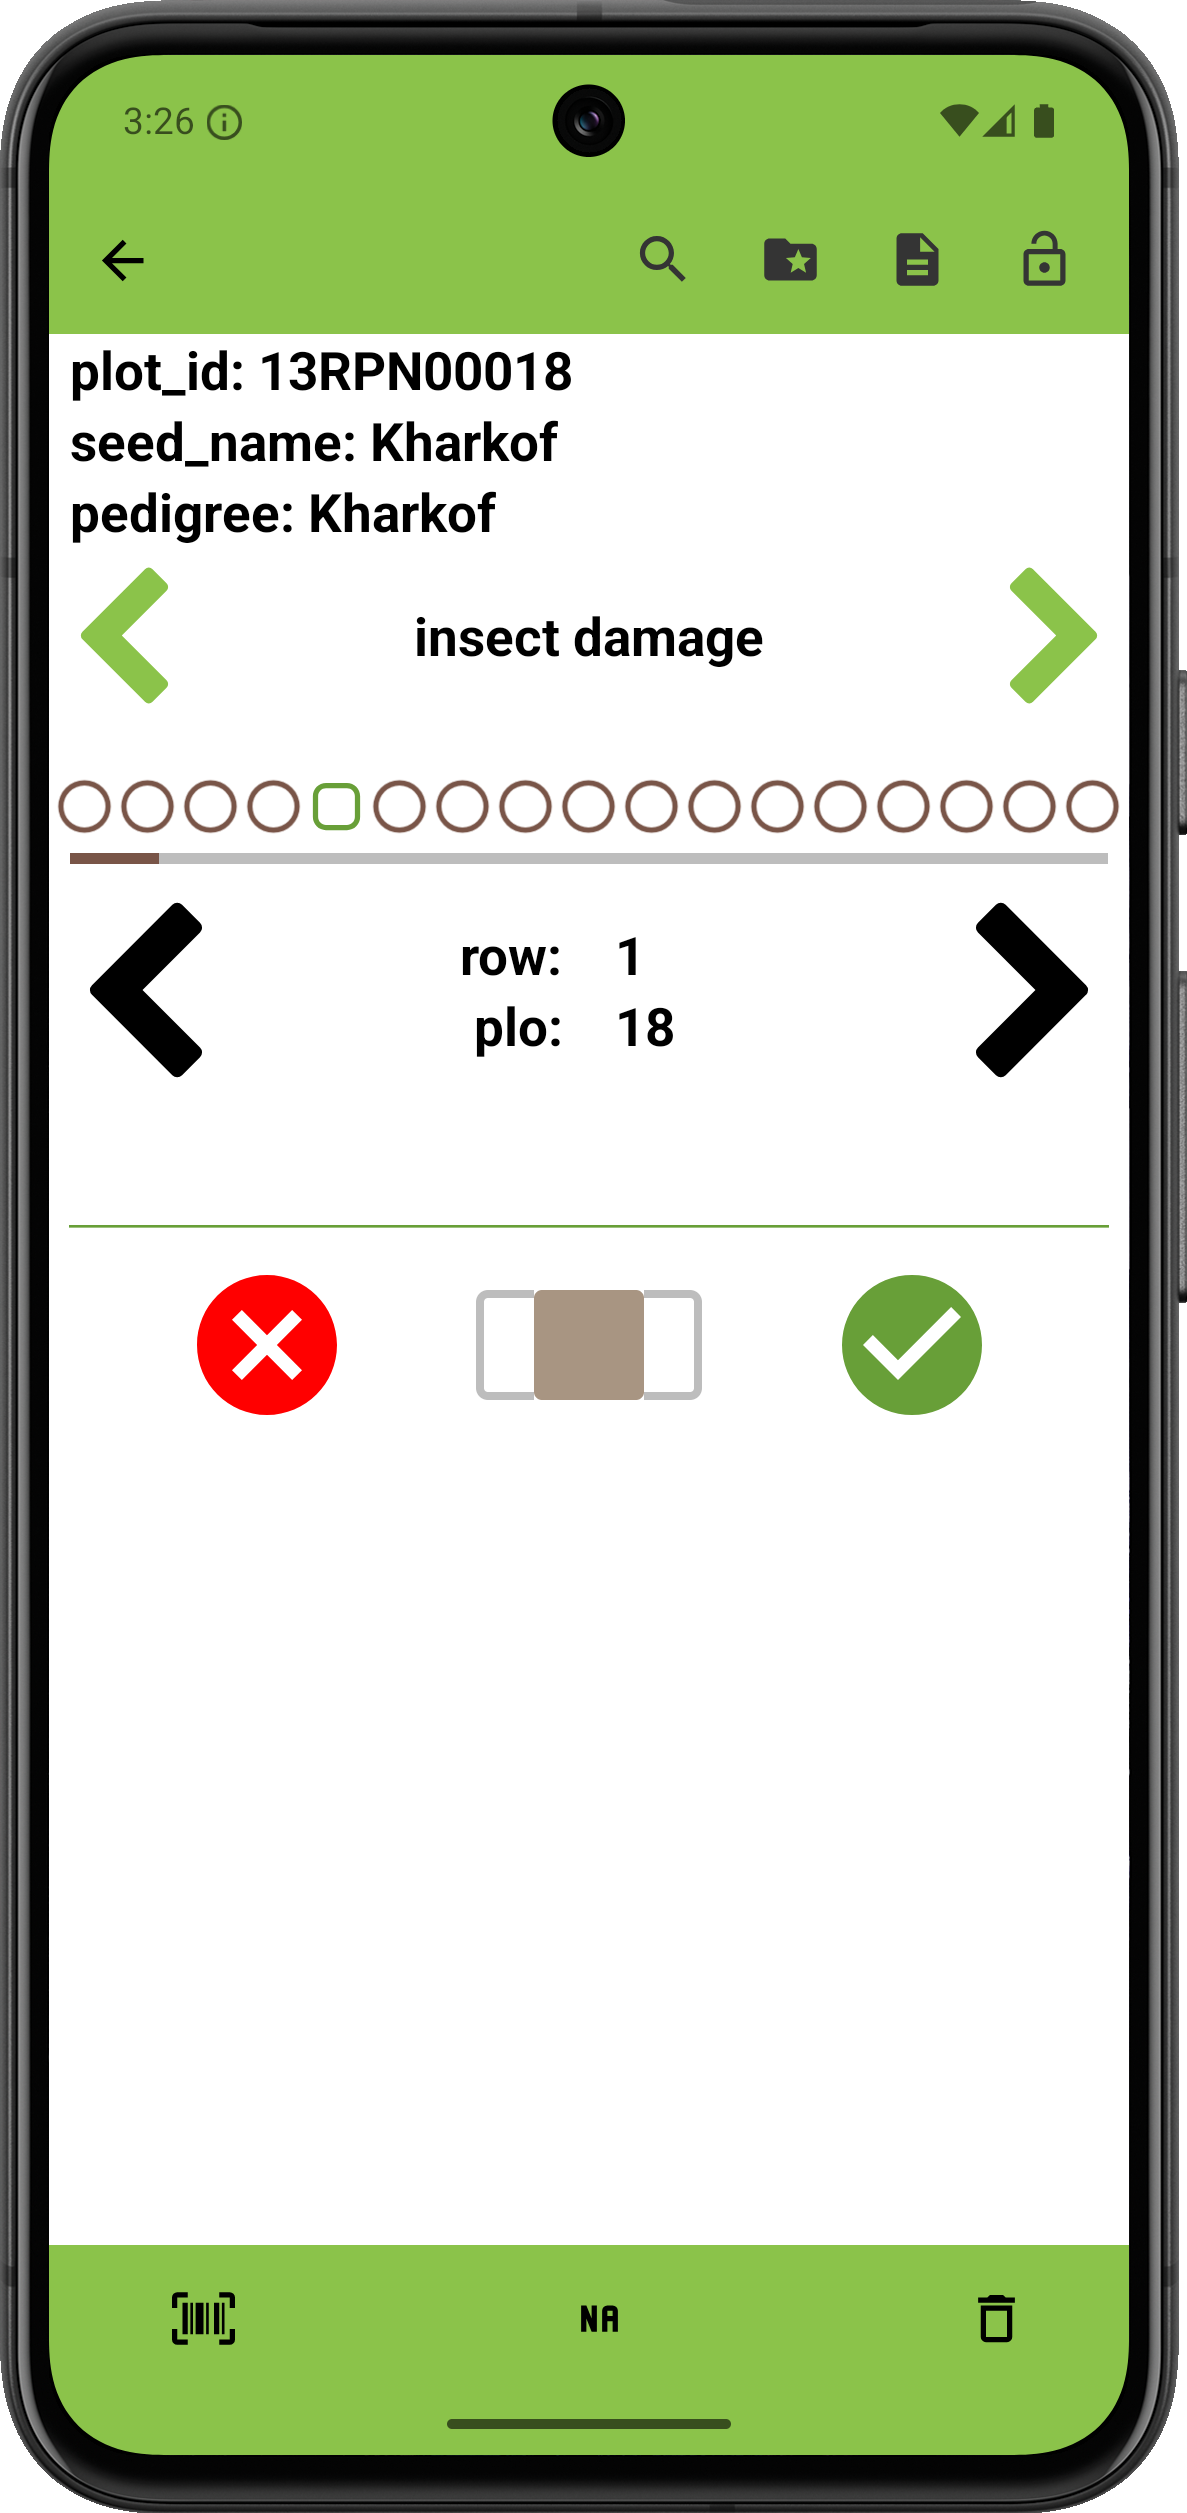
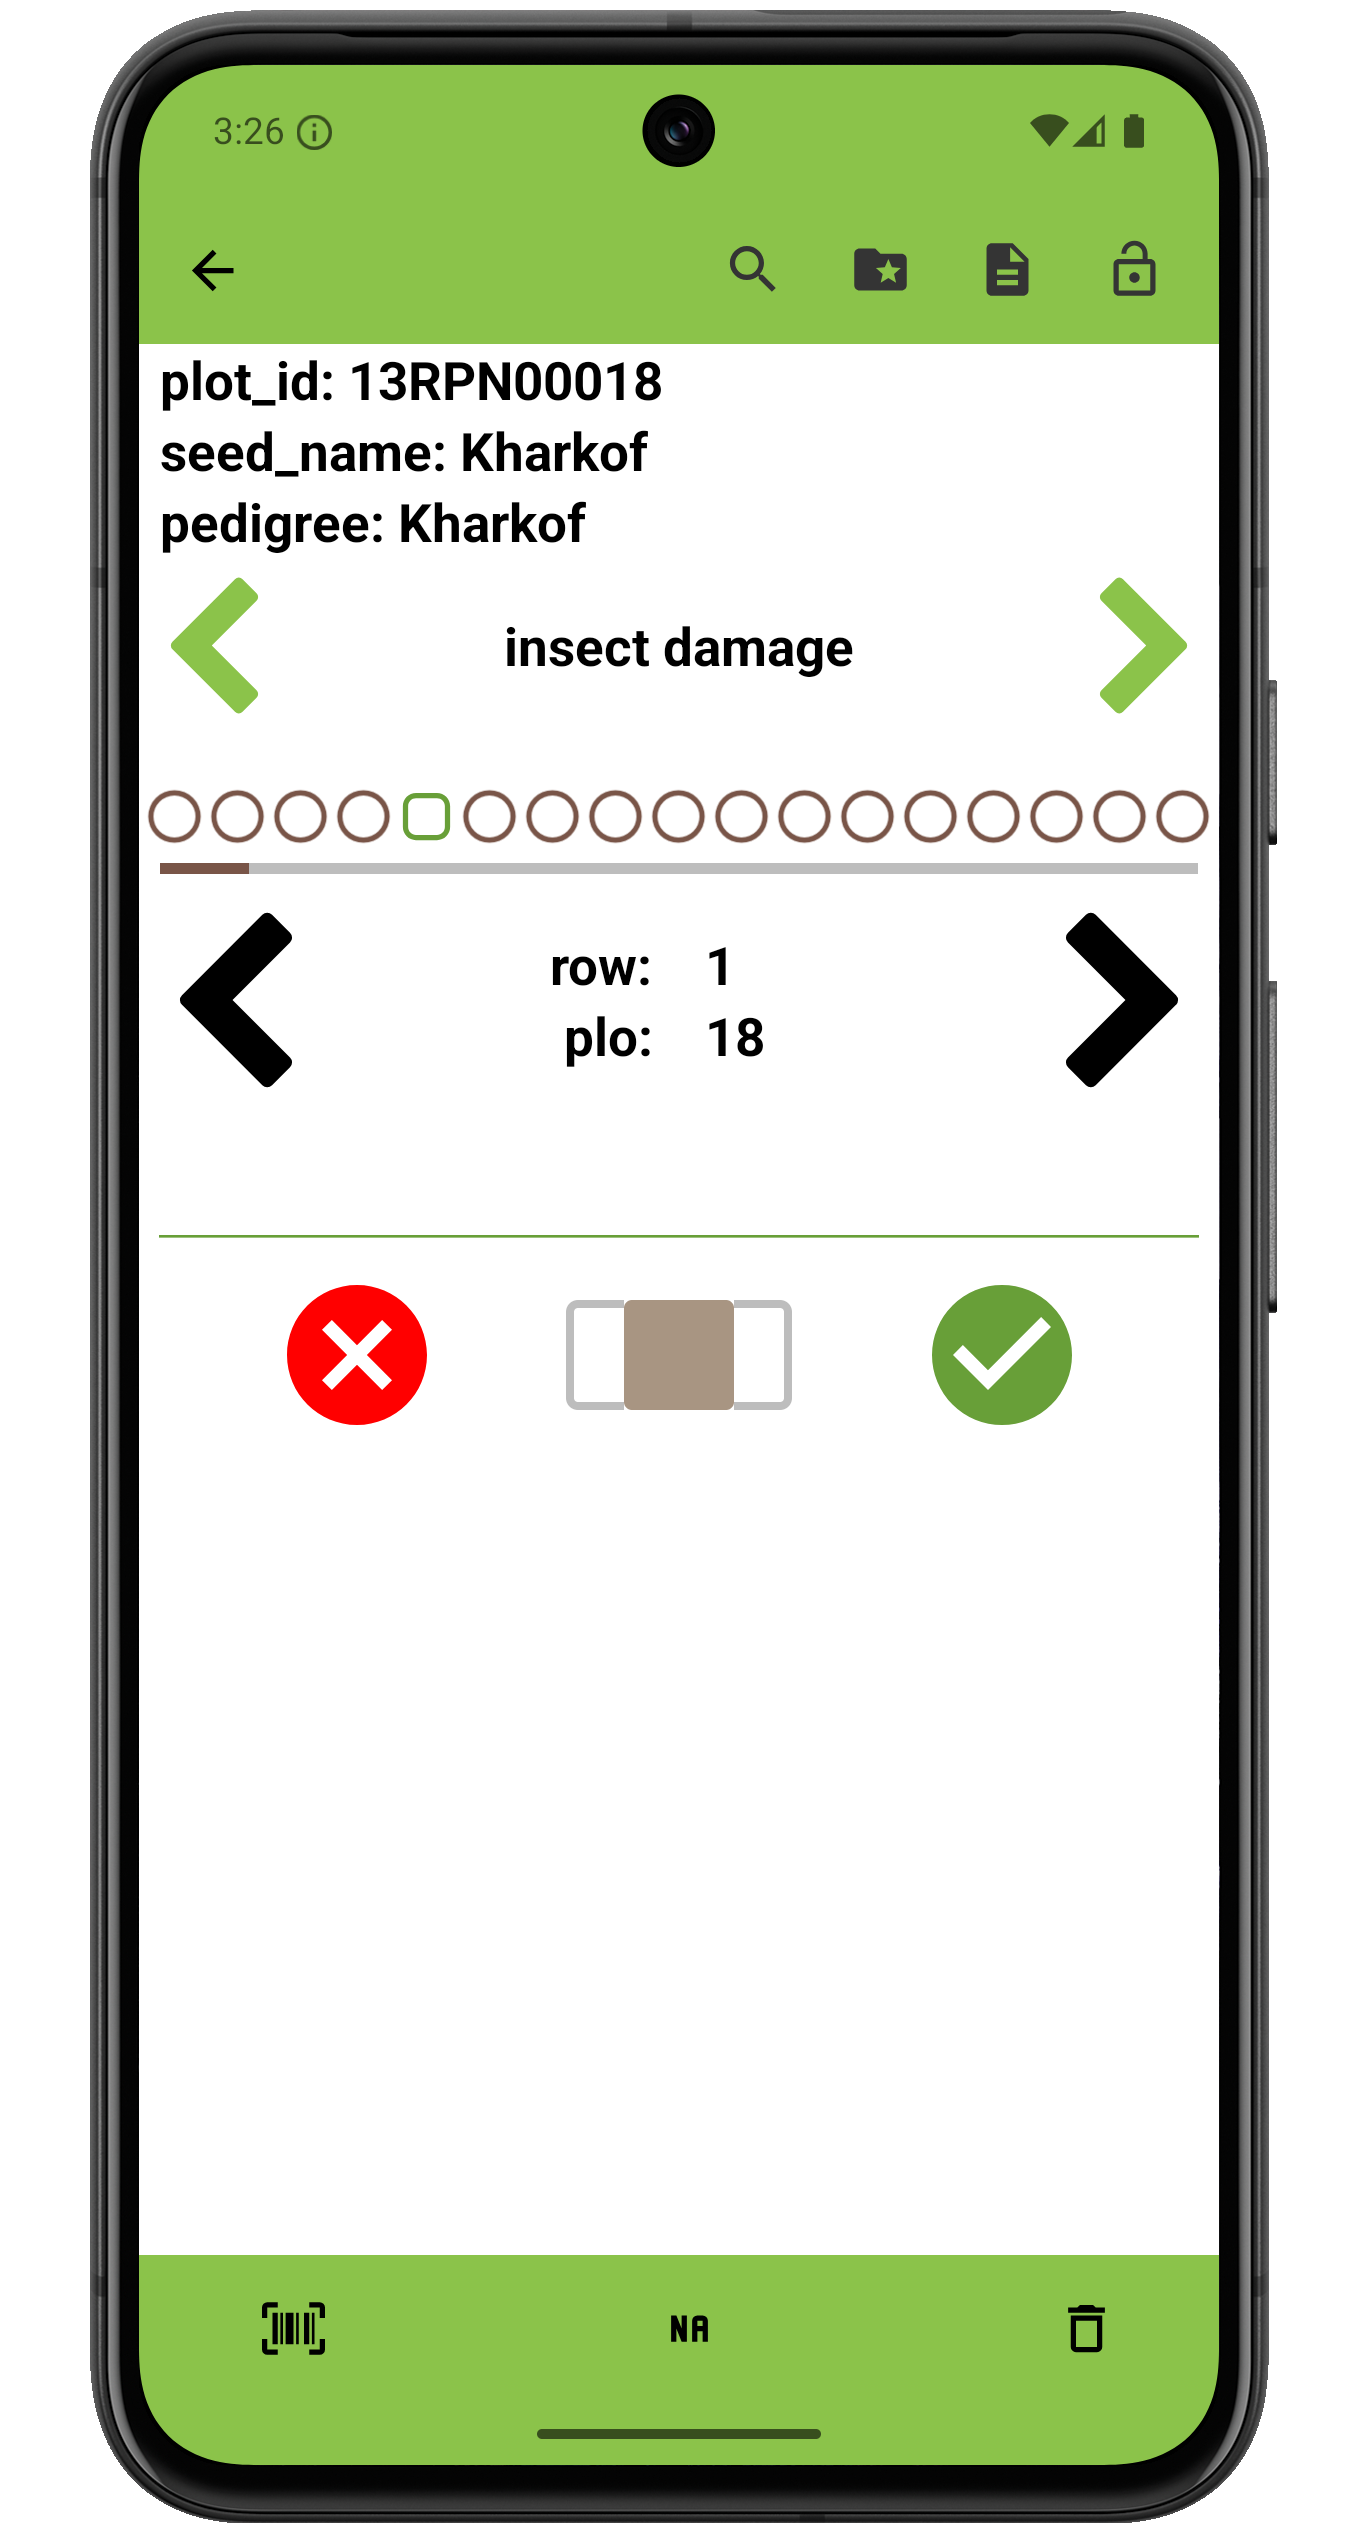
Add unset image

diff --git a/docs/traits/trait-boolean.md b/docs/traits/trait-boolean.md
@@ -18,4 +18,8 @@ On the collect screen, deleting an observation for a entry will set the seekbar 
 <figure class="image">
   <img class="screenshot" src="../_static/images/traits/formats/joined_boolean_format.png" width="700px"> 
   <figcaption class="screenshot-caption"><i>Boolean trait creation dialog and collect format</i></figcaption> 
+
+</figure><figure class="image">
+  <img class="screenshot" src="../_static/images/traits/formats/collect_boolean_unset.png" width="325px"> 
+  <figcaption class="screenshot-caption"><i>Intitial entry state when boolean default is unset</i></figcaption> 
 </figure>
